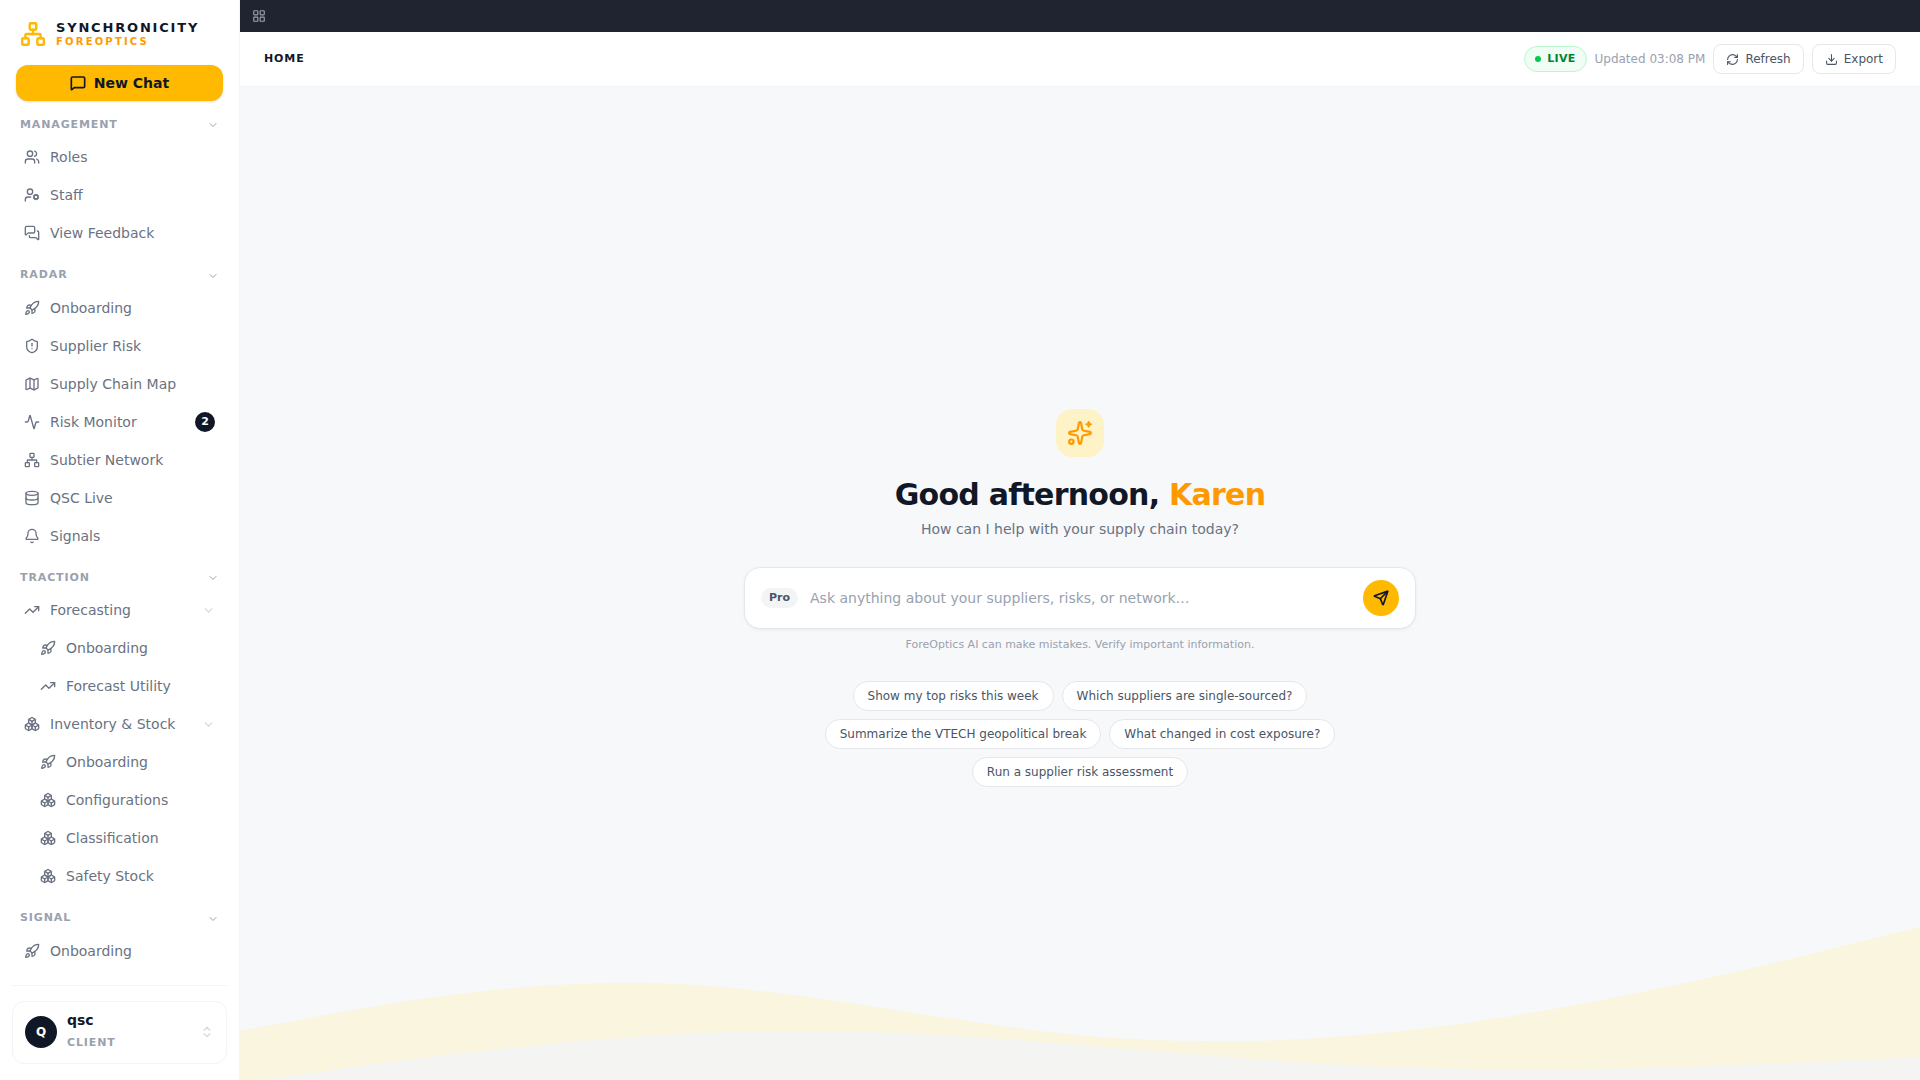
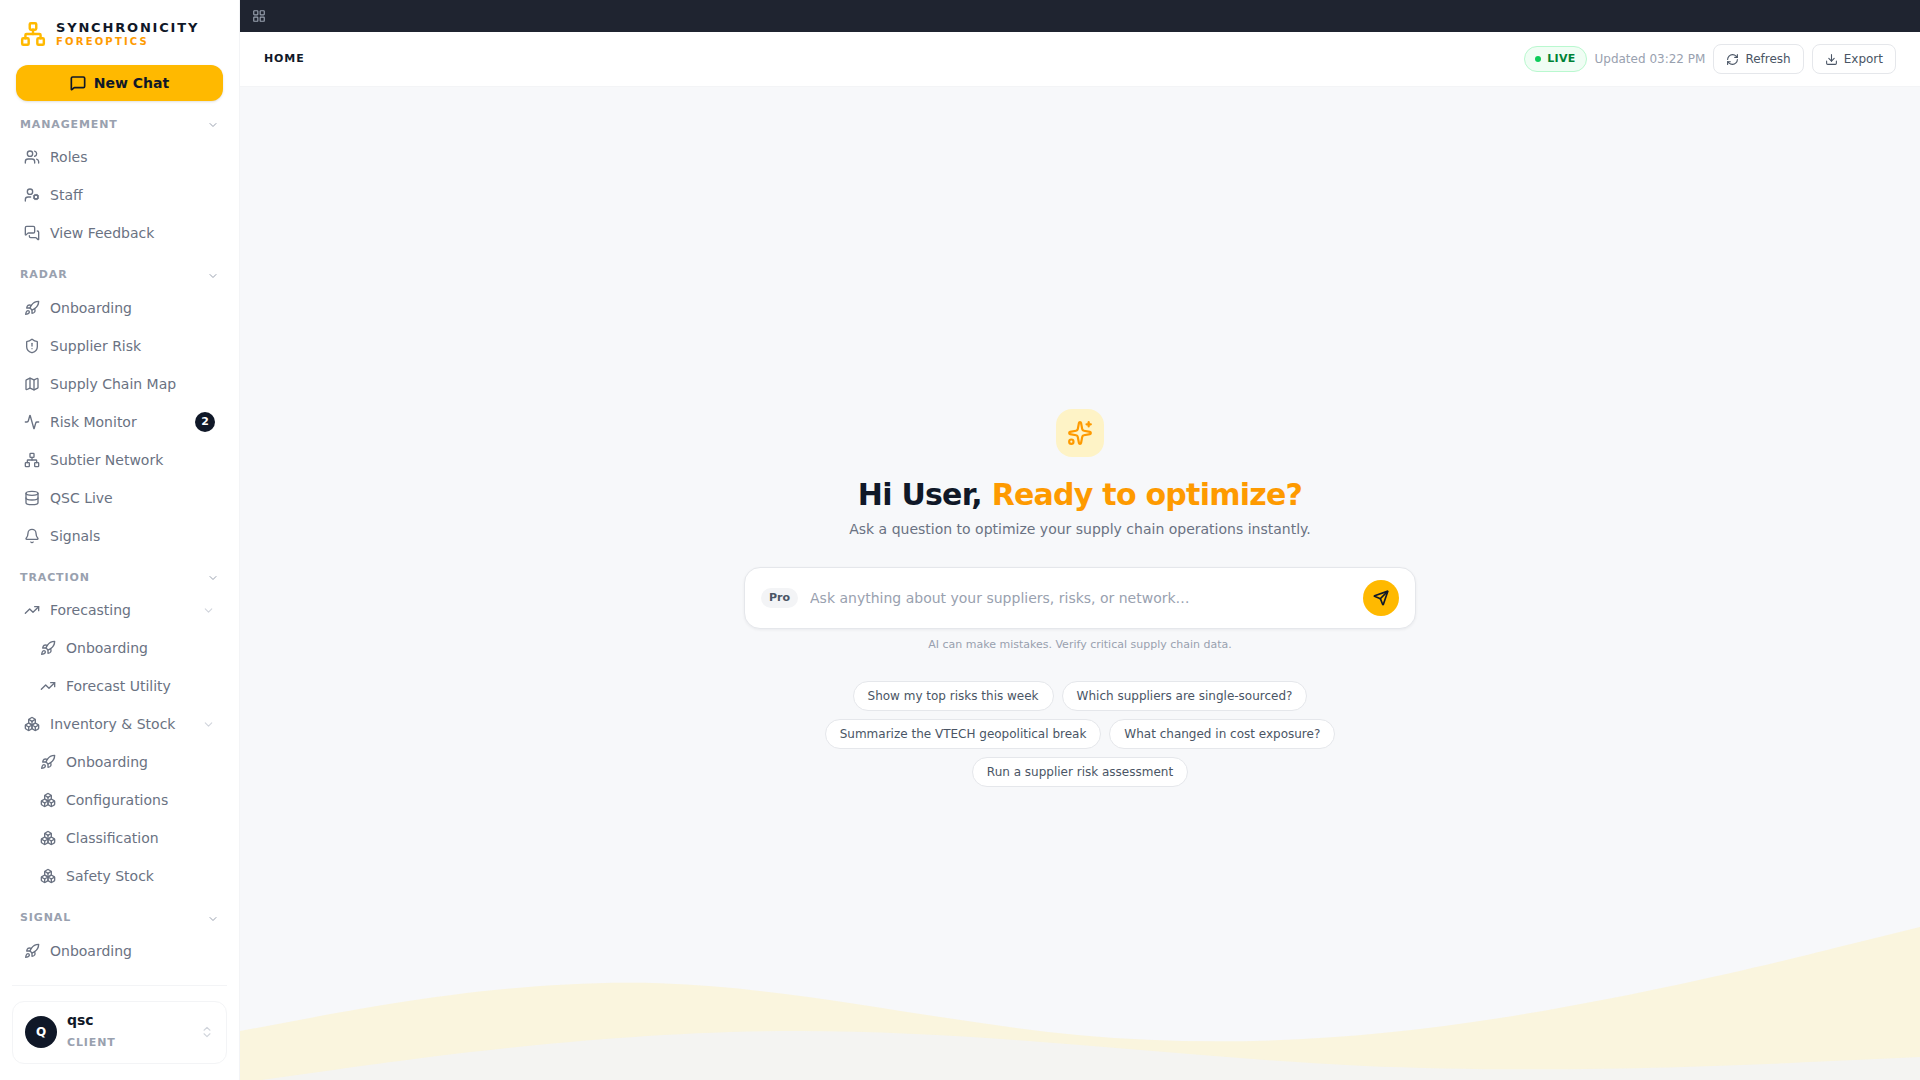
fix: verbatim drift from production screenshots — greeting, caution line, schema chips
'Hi User,' + gold 'Ready to optimize?' + exact sub-line; caution 'AI can make
mistakes. Verify critical supply chain data.'; Data Mapper chips replaced with
production set (Supplier Name*, Supplier Location*, Destination Location*,
Product Type*, Manufacturer*, Commodity*, Product Description* + plain BOM ID,
Supplier ID, Product ID, Quantity, Price, Facility Type). Finals recaptured.

Claude-Session: https://claude.ai/code/session_01Ub4y9TWszUb6F87axVynb2

Changed region(s): [[0.4375, 0.4278, 0.6875, 0.5194], [0.4688, 0.5806, 0.6562, 0.6111]]

diff --git a/src/components/DataMapper/DataMapper.tsx b/src/components/DataMapper/DataMapper.tsx
@@ -5,20 +5,19 @@ import PageTitle from '../Layout/PageTitle';
 
 // Schema chips — the red-starred set is required in the customer file
 const SCHEMA_FIELDS: { name: string; required: boolean }[] = [
-  { name: 'Item Number', required: true },
-  { name: 'MPN', required: true },
-  { name: 'Supplier', required: true },
-  { name: 'Where Used', required: true },
-  { name: 'Z2 Supplier', required: false },
-  { name: 'Commodity', required: false },
-  { name: 'Z2 Commodity', required: false },
+  { name: 'Supplier Name', required: true },
+  { name: 'Supplier Location', required: true },
+  { name: 'Destination Location', required: true },
+  { name: 'Product Type', required: true },
+  { name: 'Manufacturer', required: true },
+  { name: 'Commodity', required: true },
+  { name: 'Product Description', required: true },
+  { name: 'BOM ID', required: false },
+  { name: 'Supplier ID', required: false },
+  { name: 'Product ID', required: false },
+  { name: 'Quantity', required: false },
+  { name: 'Price', required: false },
   { name: 'Facility Type', required: false },
-  { name: 'Site Owner', required: false },
-  { name: 'Item Sourcing Status', required: false },
-  { name: 'MPN Sourcing Status', required: false },
-  { name: 'Impact Score', required: false },
-  { name: 'Indicative Unit Cost (USD)', required: false },
-  { name: 'Annual Cost Exposure (USD)', required: false },
 ];
 
 /** RADAR Data Mapper — production onboarding surface (RADAR > Onboarding). */

diff --git a/src/components/Home/ChatHome.tsx b/src/components/Home/ChatHome.tsx
@@ -37,10 +37,10 @@ export default function ChatHome() {
 
         {/* Two-tone greeting */}
         <h1 className="text-3xl font-extrabold tracking-tight mb-1.5">
-          <span className="text-gray-900">Good afternoon, </span>
-          <span className="text-amber-500">Karen</span>
+          <span className="text-gray-900">Hi User, </span>
+          <span className="text-amber-500">Ready to optimize?</span>
         </h1>
-        <p className="text-sm text-gray-500 mb-7">How can I help with your supply chain today?</p>
+        <p className="text-sm text-gray-500 mb-7">Ask a question to optimize your supply chain operations instantly.</p>
 
         {/* Input with Pro chip + gold send */}
         <div className="w-full bg-white rounded-2xl border border-gray-200 shadow-[0_1px_3px_rgba(16,24,40,0.06)] px-4 py-3 flex items-center gap-3 mb-2">
@@ -59,7 +59,7 @@ export default function ChatHome() {
 
         {/* Caution line */}
         <p className="text-[11px] text-gray-400 mb-7">
-          ForeOptics AI can make mistakes. Verify important information.
+          AI can make mistakes. Verify critical supply chain data.
         </p>
 
         {/* Five suggestion chips */}
